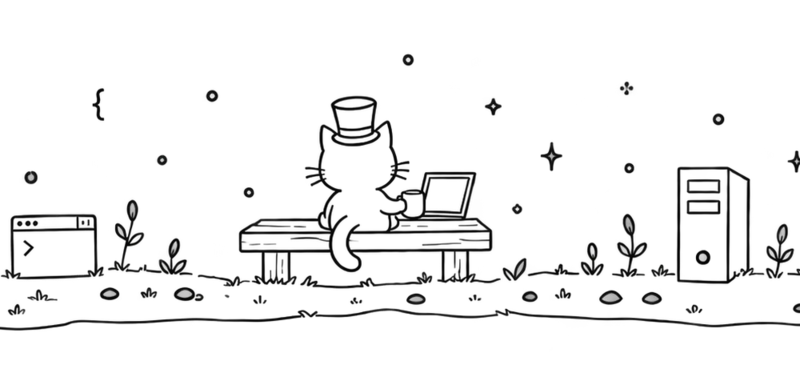
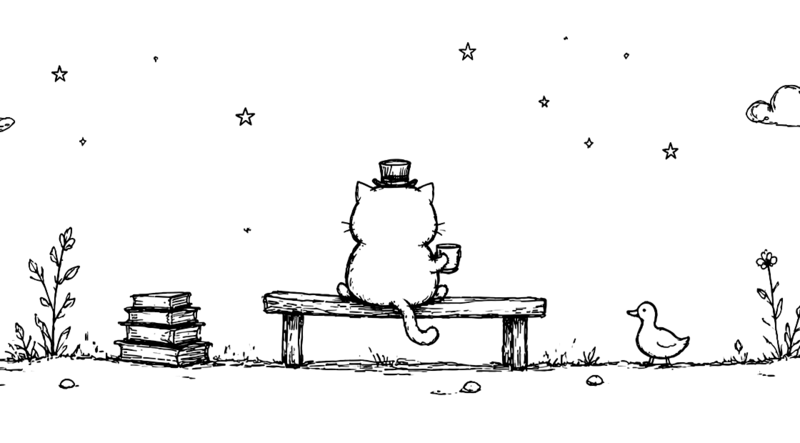
Refine footer art and shortcut control

diff --git a/src/styles/global.css b/src/styles/global.css
@@ -212,21 +212,43 @@ h3 {
 }
 
 .shortcut-help summary {
-  color: var(--ink-muted);
+  align-items: stretch;
+  border: 1px solid var(--ink);
+  color: var(--ink);
   cursor: pointer;
+  display: inline-flex;
   font-size: 0.66rem;
+  line-height: 1;
   list-style: none;
-  text-decoration: underline;
-  text-decoration-style: dotted;
-  text-underline-offset: 0.28em;
+  padding: 0;
 }
 
 .shortcut-help summary::-webkit-details-marker {
   display: none;
 }
 
-.shortcut-help[open] summary {
-  color: var(--ink);
+.mode-chip,
+.shortcut-label {
+  align-items: center;
+  display: inline-flex;
+  min-height: 1.4rem;
+}
+
+.mode-chip {
+  background: var(--ink);
+  color: var(--paper);
+  font-weight: 700;
+  justify-content: center;
+  min-width: 1.4rem;
+}
+
+.shortcut-label {
+  padding: 0 0.38rem;
+}
+
+.shortcut-help[open] .shortcut-label,
+.shortcut-help summary:hover .shortcut-label {
+  background: var(--paper-deep);
 }
 
 .shortcut-panel {
@@ -661,13 +683,62 @@ kbd {
   margin-top: clamp(5rem, 12vw, 9rem);
 }
 
+.footer-scene {
+  background: transparent;
+  border: 0;
+  color: inherit;
+  cursor: pointer;
+  display: block;
+  font: inherit;
+  padding: 0;
+  position: relative;
+  width: 100%;
+}
+
 .footer-picture {
   display: block;
 }
 
 .footer-art {
   height: auto;
+  transform-origin: center bottom;
   width: 100%;
+}
+
+.segfault-message {
+  background: var(--ink);
+  color: var(--paper-light);
+  font-size: 0.62rem;
+  left: 50%;
+  opacity: 0;
+  padding: 0.18rem 0.4rem;
+  pointer-events: none;
+  position: absolute;
+  top: 56%;
+  transform: translate(-50%, -50%);
+  white-space: nowrap;
+}
+
+.footer-scene.is-faulting .footer-art {
+  animation: footer-fault 760ms steps(1, end) both;
+}
+
+.footer-scene.is-faulting .segfault-message {
+  animation: fault-message 760ms steps(1, end) both;
+}
+
+@keyframes footer-fault {
+  0%, 12%, 72%, 100% { clip-path: inset(0); transform: translate(0); }
+  13% { clip-path: inset(9% 0 61%); transform: translateX(5px); }
+  24% { clip-path: inset(47% 0 22%); transform: translateX(-4px); }
+  36% { clip-path: inset(25% 0 43%); transform: translateX(3px); }
+  48% { clip-path: inset(66% 0 7%); transform: translateX(-2px); }
+  60% { clip-path: inset(0); transform: translateX(1px); }
+}
+
+@keyframes fault-message {
+  0%, 18%, 100% { opacity: 0; }
+  19%, 72% { opacity: 1; }
 }
 
 .footer-meta {
@@ -802,5 +873,14 @@ kbd {
 
   .portrait-stage:hover .portrait {
     transform: none;
+  }
+
+  .footer-scene.is-faulting .footer-art {
+    animation: none;
+  }
+
+  .footer-scene.is-faulting .segfault-message {
+    animation: none;
+    opacity: 1;
   }
 }
